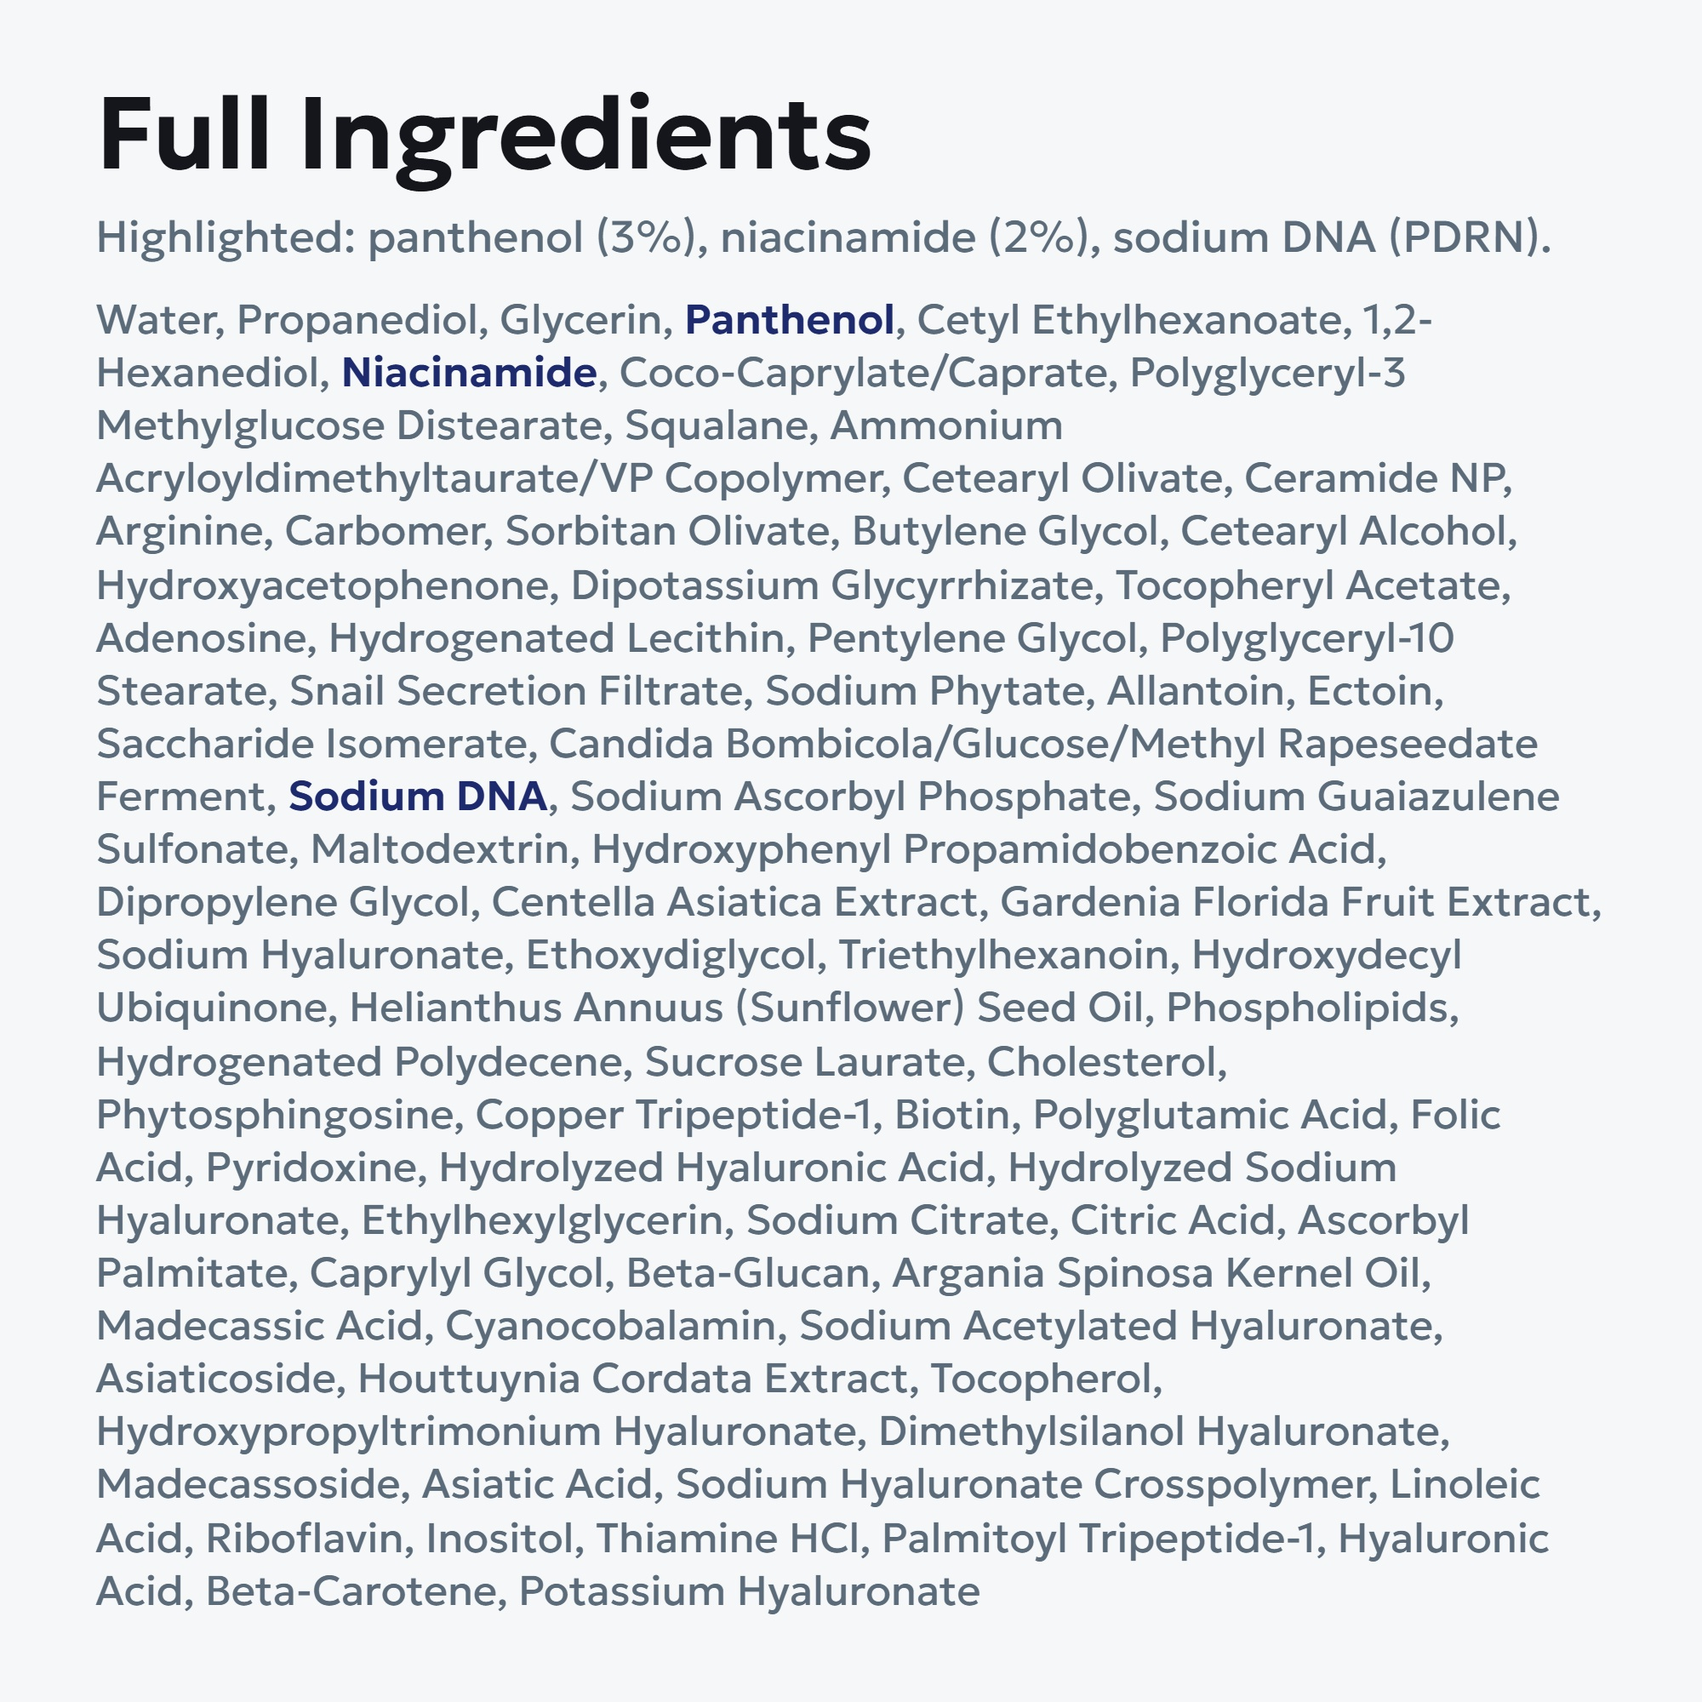
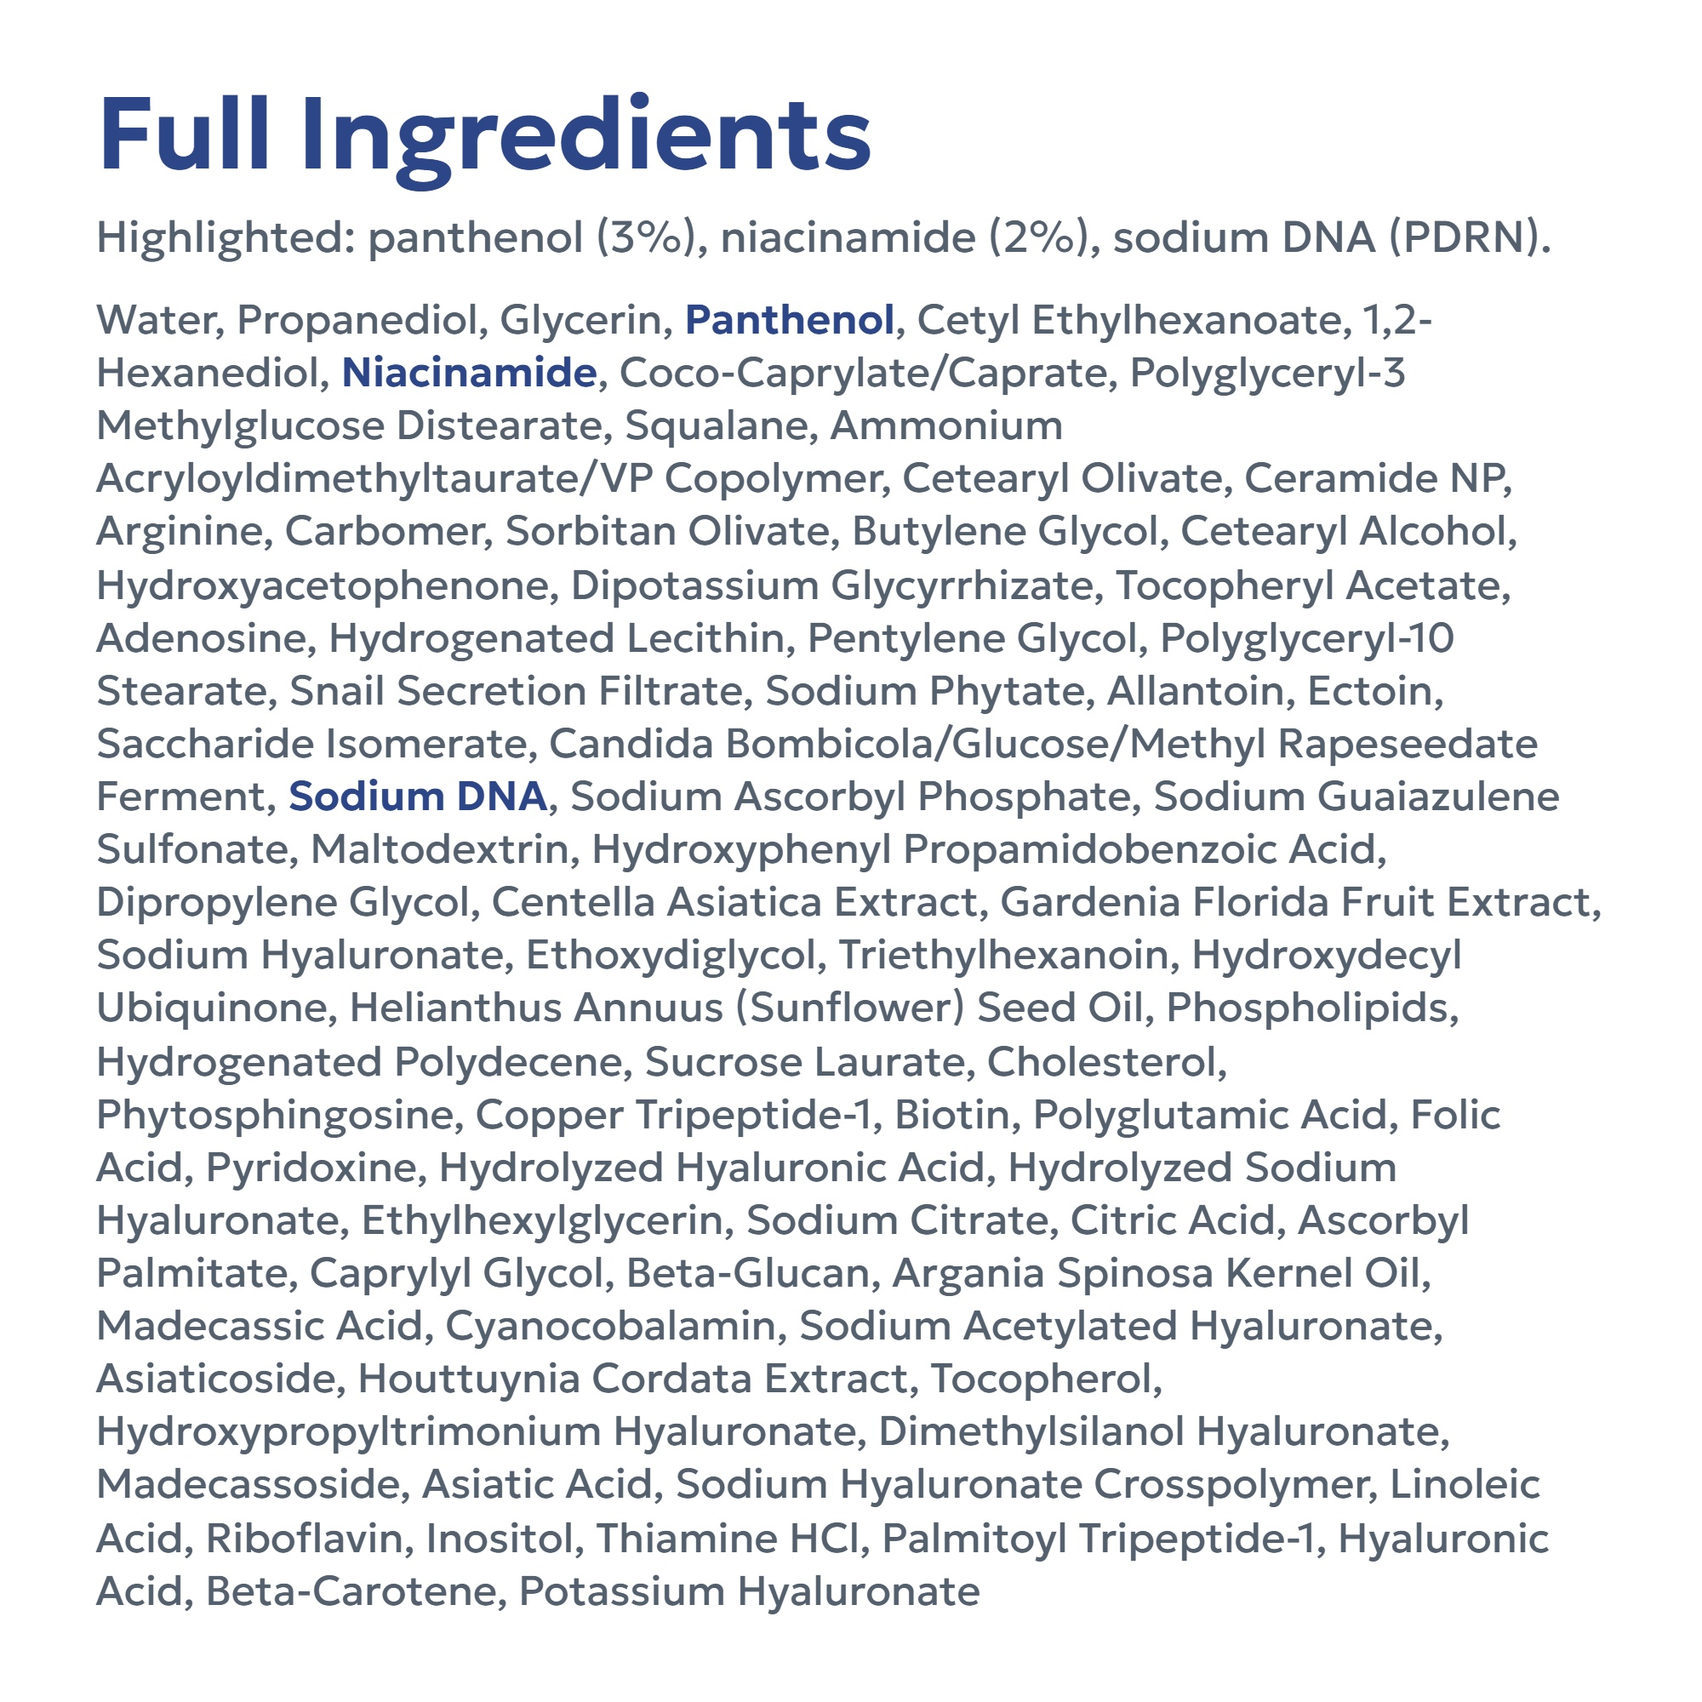
cream v2: Laneige-style light layout in Pantone 2146C, clinical card, box water texture

diff --git a/hydrovuster-cream-v1/index.html b/hydrovuster-cream-v1/index.html
@@ -53,11 +53,11 @@ header h1{font:600 18px/1.2 Archivo,sans-serif;font-stretch:85%}header span{colo
 <div class="col"><p class="lbl" style="max-width:1000px">PC (1600px 화면)</p><div class="browser" id="br"><div class="bar"><i></i><i></i><i></i></div>
 <div class="pg" id="pg"><div class="pdp"><div class="ths"><button class="th on" data-i="0"><img src="img/G01_MAIN_2000.jpg" alt=""></button><button class="th" data-i="1"><img src="img/G02_PT01_what_2000.jpg" alt=""></button><button class="th" data-i="2"><img src="img/G03_PT02_tested_2000.jpg" alt=""></button><button class="th" data-i="3"><img src="img/G04_PT03_numbers_2000.jpg" alt=""></button><button class="th" data-i="4"><img src="img/G05_PT04_ingredients_2000.jpg" alt=""></button><button class="th" data-i="5"><img src="img/G06_PT05_texture_2000.jpg" alt=""></button><button class="th" data-i="6"><img src="img/G07_PT06_how-to-use_2000.jpg" alt=""></button><button class="th" data-i="7"><img src="img/G08_INGR_full-ingredients_2000.jpg" alt=""></button></div><div class="main"><img id="main" src="img/G01_MAIN_2000.jpg" alt=""></div>
 <div class="ph"><div class="t"></div><div class="t" style="width:70%"></div><div style="width:40%"></div><div class="note">상품명·가격은 기존 리스팅 그대로(목업에서는 비워 둠)</div><div class="accs"><details class="acc" open><summary>Top highlights</summary><table class="kv"><tr><th>Brand</th><td>PYDERIN</td></tr><tr><th>Item Form</th><td>Cream</td></tr><tr><th>Product Benefits</th><td>Moisturizing</td></tr><tr><th>Use for</th><td>Face</td></tr><tr><th>Scent</th><td class=chk>Unscented</td></tr><tr><th>Skin Type</th><td class=chk>Dry</td></tr></table><p class="abt">About this item</p><ul class="bul"><li><b>Measured Moisture:</b> In a test on 21 adults with dry skin, one use lowered water loss through the skin by 28.8% and raised skin hydration density by 83% (face, average readings; temporary, results vary; Korea Institute of Dermatological Sciences, 2026)</li><li><b>What&#x27;s Inside:</b> PDRN complex 5,000 ppm (Derbiome PDRN 10K raw material, about 50 ppm sodium DNA), panthenol 3%, niacinamide 2%, plus ceramide NP and squalane</li><li><b>Light Blue, Light Feel:</b> A soft cream that spreads thin as the final step. All 21 testers liked the texture, and all 21 felt their skin was holding moisture better after one use</li><li><b>Patch-Tested:</b> 0.00 mean irritation score (non-irritant) in a 24-hour patch test on 32 adults, graded by a dermatologist, plus zero skin reactions in a 21-person single-application study (Korea Institute of Dermatological Sciences, 2026)</li><li><b>Last Step, Morning and Night:</b> After toner and serum, smooth a small amount over the face, then cup your palms to help it set. Avoid the eye area and broken skin</li></ul></details><details class="acc"><summary>Item details</summary><table class="kv"><tr><th>Number of Items</th><td>1</td></tr><tr><th>Special Ingredients</th><td>PDRN, Panthenol, Niacinamide, Ceramide NP, Squalane</td></tr><tr><th>Country of Origin</th><td>South Korea</td></tr><tr><th>Manufacturer</th><td class=chk>PYDERIN CO., LTD.</td></tr></table></details><details class="acc"><summary>Measurements</summary><table class="kv"><tr><th>Volume</th><td>2.03 fl oz (60 ml)</td></tr><tr><th>Item Weight</th><td class=chk>(확인 필요)</td></tr><tr><th>Package Dimensions</th><td class=chk>(확인 필요)</td></tr></table></details><span class="spec">See all product specifications</span></div></div></div>
-<p class="sec">Product description</p><div class="aplus"><img src="img/A01_hero_desktop_1464x600.jpg" alt=""><img src="img/A02_when-to-use_desktop_1464x600.jpg" alt=""><img src="img/A03_skin-study_desktop_1464x600.jpg" alt=""><img src="img/A04_whats-inside_desktop_1464x600.jpg" alt=""><img src="img/A05_how-to-use_desktop_1464x600.jpg" alt=""><div class="cmp"><p class="cmph">PYDERIN Hydrovuster Blue Soothing Routine</p><div class="cmpw"><table><tr><td></td><th><img src="img/cmp/compare_mask.jpg" alt=""><a>PDRN SOS Hyal Soothing Mask</a><span class="btn">Add to Cart</span></th><th><img src="img/cmp/compare_serum.jpg" alt=""><a>PDRN SOS Derma Soothing Serum</a><span class="btn">Add to Cart</span></th><th><img src="img/cmp/compare_cream.jpg" alt=""><a>PDRN Re-Barrier Soothing Cream</a><span class="btn">This item</span></th></tr><tr><td>Customer Reviews</td><td>(자동)</td><td>(자동)</td><td>(자동)</td></tr><tr><td>Price</td><td>(자동)</td><td>(자동)</td><td>(자동)</td></tr><tr><td>Step in Routine</td><td>Mask</td><td>Serum</td><td>Cream</td></tr><tr><td>When to Use</td><td>When skin needs extra moisture</td><td>Morning and night</td><td>Morning and night, last step</td></tr><tr><td>Texture</td><td>Sheet mask</td><td>Cushiony blue gel</td><td>Light blue cream</td></tr><tr><td>Key Ingredient</td><td>PDRN complex</td><td>PDRN complex 10,000 ppm</td><td>PDRN complex 5,000 ppm</td></tr><tr><td>Unit / Size</td><td>7 masks (확인 필요)</td><td>1.35 fl oz (40 ml)</td><td>2.03 fl oz (60 ml)</td></tr></table></div></div><div class="qa"><p class="qah">Questions &amp; Answers</p><details class="qai"><summary>Is it heavy?</summary><p>No. It is a soft cream that spreads thin, so a small amount covers the whole face.</p></details><details class="qai"><summary>Where does it go in my routine?</summary><p>Last, after toner and serum. In the morning, follow with sunscreen.</p></details><details class="qai"><summary>Can I use it every day?</summary><p>Yes, morning and night. If your skin is sensitive, patch test first, and stop use if irritation occurs.</p></details><details class="qai"><summary>Why does the blue look a little different from tube to tube?</summary><p>The light blue shade can vary slightly from batch to batch and may shift with heat and light. It does not affect quality.</p></details><details class="qai"><summary>Does it contain fragrance?</summary><p>No fragrance is listed in the ingredients. See the full ingredient list in the images.</p></details></div></div></div></div></div>
+<p class="sec">Product description</p><div class="aplus"><img src="img/A01_hero_desktop_1464x600.jpg" alt=""><img src="img/A02_hydration_desktop_1464x600.jpg" alt=""><img src="img/A03_whats-inside_desktop_1464x600.jpg" alt=""><img src="img/A04_skin-study_desktop_1464x600.jpg" alt=""><img src="img/A05_testers_desktop_1464x600.jpg" alt=""><div class="cmp"><p class="cmph">PYDERIN Hydrovuster Blue Soothing Routine</p><div class="cmpw"><table><tr><td></td><th><img src="img/cmp/compare_mask.jpg" alt=""><a>PDRN SOS Hyal Soothing Mask</a><span class="btn">Add to Cart</span></th><th><img src="img/cmp/compare_serum.jpg" alt=""><a>PDRN SOS Derma Soothing Serum</a><span class="btn">Add to Cart</span></th><th><img src="img/cmp/compare_cream.jpg" alt=""><a>PDRN Re-Barrier Soothing Cream</a><span class="btn">This item</span></th></tr><tr><td>Customer Reviews</td><td>(자동)</td><td>(자동)</td><td>(자동)</td></tr><tr><td>Price</td><td>(자동)</td><td>(자동)</td><td>(자동)</td></tr><tr><td>Step in Routine</td><td>Mask</td><td>Serum</td><td>Cream</td></tr><tr><td>When to Use</td><td>When skin needs extra moisture</td><td>Morning and night</td><td>Morning and night, last step</td></tr><tr><td>Texture</td><td>Sheet mask</td><td>Cushiony blue gel</td><td>Light blue cream</td></tr><tr><td>Key Ingredient</td><td>PDRN complex</td><td>PDRN complex 10,000 ppm</td><td>PDRN complex 5,000 ppm</td></tr><tr><td>Unit / Size</td><td>7 masks (확인 필요)</td><td>1.35 fl oz (40 ml)</td><td>2.03 fl oz (60 ml)</td></tr></table></div></div><div class="qa"><p class="qah">Questions &amp; Answers</p><details class="qai"><summary>Is it heavy?</summary><p>No. It is a soft cream that spreads thin, so a small amount covers the whole face.</p></details><details class="qai"><summary>Where does it go in my routine?</summary><p>Last, after toner and serum. In the morning, follow with sunscreen.</p></details><details class="qai"><summary>Can I use it every day?</summary><p>Yes, morning and night. If your skin is sensitive, patch test first, and stop use if irritation occurs.</p></details><details class="qai"><summary>Why does the blue look a little different from tube to tube?</summary><p>The light blue shade can vary slightly from batch to batch and may shift with heat and light. It does not affect quality.</p></details><details class="qai"><summary>Does it contain fragrance?</summary><p>No fragrance is listed in the ingredients. See the full ingredient list in the images.</p></details></div></div></div></div></div>
 <div class="col"><p class="lbl" style="text-align:center">MOBILE (390px)</p><div class="phone"><div class="scr"><div class="notch"><i></i></div>
 <div class="mph"><div style="width:30%"></div><div class="t"></div><div class="t" style="width:60%"></div></div><div class="sw" id="sw"><img src="img/G01_MAIN_2000.jpg" alt=""><img src="img/G02_PT01_what_2000.jpg" alt=""><img src="img/G03_PT02_tested_2000.jpg" alt=""><img src="img/G04_PT03_numbers_2000.jpg" alt=""><img src="img/G05_PT04_ingredients_2000.jpg" alt=""><img src="img/G06_PT05_texture_2000.jpg" alt=""><img src="img/G07_PT06_how-to-use_2000.jpg" alt=""><img src="img/G08_INGR_full-ingredients_2000.jpg" alt=""></div><div class="dots" id="dots"><i class=on></i><i></i><i></i><i></i><i></i><i></i><i></i><i></i></div>
 <div class="mph"><div style="width:40%"></div></div><div class="mabt"><details class="acc"><summary>Top highlights</summary><table class="kv"><tr><th>Brand</th><td>PYDERIN</td></tr><tr><th>Item Form</th><td>Cream</td></tr><tr><th>Product Benefits</th><td>Moisturizing</td></tr><tr><th>Use for</th><td>Face</td></tr><tr><th>Scent</th><td class=chk>Unscented</td></tr><tr><th>Skin Type</th><td class=chk>Dry</td></tr></table><p class="abt">About this item</p><ul class="bul"><li><b>Measured Moisture:</b> In a test on 21 adults with dry skin, one use lowered water loss through the skin by 28.8% and raised skin hydration density by 83% (face, average readings; temporary, results vary; Korea Institute of Dermatological Sciences, 2026)</li><li><b>What&#x27;s Inside:</b> PDRN complex 5,000 ppm (Derbiome PDRN 10K raw material, about 50 ppm sodium DNA), panthenol 3%, niacinamide 2%, plus ceramide NP and squalane</li><li><b>Light Blue, Light Feel:</b> A soft cream that spreads thin as the final step. All 21 testers liked the texture, and all 21 felt their skin was holding moisture better after one use</li><li><b>Patch-Tested:</b> 0.00 mean irritation score (non-irritant) in a 24-hour patch test on 32 adults, graded by a dermatologist, plus zero skin reactions in a 21-person single-application study (Korea Institute of Dermatological Sciences, 2026)</li><li><b>Last Step, Morning and Night:</b> After toner and serum, smooth a small amount over the face, then cup your palms to help it set. Avoid the eye area and broken skin</li></ul></details><details class="acc"><summary>Item details</summary><table class="kv"><tr><th>Number of Items</th><td>1</td></tr><tr><th>Special Ingredients</th><td>PDRN, Panthenol, Niacinamide, Ceramide NP, Squalane</td></tr><tr><th>Country of Origin</th><td>South Korea</td></tr><tr><th>Manufacturer</th><td class=chk>PYDERIN CO., LTD.</td></tr></table></details><details class="acc"><summary>Measurements</summary><table class="kv"><tr><th>Volume</th><td>2.03 fl oz (60 ml)</td></tr><tr><th>Item Weight</th><td class=chk>(확인 필요)</td></tr><tr><th>Package Dimensions</th><td class=chk>(확인 필요)</td></tr></table></details><span class="spec">See all product specifications</span></div>
-<p class="msec">Product description</p><div class="maplus"><img src="img/A01_hero_mobile_600x450.jpg" alt=""><img src="img/A02_when-to-use_mobile_600x450.jpg" alt=""><img src="img/A03_skin-study_mobile_600x450.jpg" alt=""><img src="img/A04_whats-inside_mobile_600x450.jpg" alt=""><img src="img/A05_how-to-use_mobile_600x450.jpg" alt=""><div class="cmp"><p class="cmph">PYDERIN Hydrovuster Blue Soothing Routine</p><div class="cmpw"><table><tr><td></td><th><img src="img/cmp/compare_mask.jpg" alt=""><a>PDRN SOS Hyal Soothing Mask</a><span class="btn">Add to Cart</span></th><th><img src="img/cmp/compare_serum.jpg" alt=""><a>PDRN SOS Derma Soothing Serum</a><span class="btn">Add to Cart</span></th><th><img src="img/cmp/compare_cream.jpg" alt=""><a>PDRN Re-Barrier Soothing Cream</a><span class="btn">This item</span></th></tr><tr><td>Customer Reviews</td><td>(자동)</td><td>(자동)</td><td>(자동)</td></tr><tr><td>Price</td><td>(자동)</td><td>(자동)</td><td>(자동)</td></tr><tr><td>Step in Routine</td><td>Mask</td><td>Serum</td><td>Cream</td></tr><tr><td>When to Use</td><td>When skin needs extra moisture</td><td>Morning and night</td><td>Morning and night, last step</td></tr><tr><td>Texture</td><td>Sheet mask</td><td>Cushiony blue gel</td><td>Light blue cream</td></tr><tr><td>Key Ingredient</td><td>PDRN complex</td><td>PDRN complex 10,000 ppm</td><td>PDRN complex 5,000 ppm</td></tr><tr><td>Unit / Size</td><td>7 masks (확인 필요)</td><td>1.35 fl oz (40 ml)</td><td>2.03 fl oz (60 ml)</td></tr></table></div></div><div class="qa"><p class="qah">Questions &amp; Answers</p><details class="qai"><summary>Is it heavy?</summary><p>No. It is a soft cream that spreads thin, so a small amount covers the whole face.</p></details><details class="qai"><summary>Where does it go in my routine?</summary><p>Last, after toner and serum. In the morning, follow with sunscreen.</p></details><details class="qai"><summary>Can I use it every day?</summary><p>Yes, morning and night. If your skin is sensitive, patch test first, and stop use if irritation occurs.</p></details><details class="qai"><summary>Why does the blue look a little different from tube to tube?</summary><p>The light blue shade can vary slightly from batch to batch and may shift with heat and light. It does not affect quality.</p></details><details class="qai"><summary>Does it contain fragrance?</summary><p>No fragrance is listed in the ingredients. See the full ingredient list in the images.</p></details></div></div></div></div></div>
+<p class="msec">Product description</p><div class="maplus"><img src="img/A01_hero_mobile_600x450.jpg" alt=""><img src="img/A02_hydration_mobile_600x450.jpg" alt=""><img src="img/A03_whats-inside_mobile_600x450.jpg" alt=""><img src="img/A04_skin-study_mobile_600x450.jpg" alt=""><img src="img/A05_testers_mobile_600x450.jpg" alt=""><div class="cmp"><p class="cmph">PYDERIN Hydrovuster Blue Soothing Routine</p><div class="cmpw"><table><tr><td></td><th><img src="img/cmp/compare_mask.jpg" alt=""><a>PDRN SOS Hyal Soothing Mask</a><span class="btn">Add to Cart</span></th><th><img src="img/cmp/compare_serum.jpg" alt=""><a>PDRN SOS Derma Soothing Serum</a><span class="btn">Add to Cart</span></th><th><img src="img/cmp/compare_cream.jpg" alt=""><a>PDRN Re-Barrier Soothing Cream</a><span class="btn">This item</span></th></tr><tr><td>Customer Reviews</td><td>(자동)</td><td>(자동)</td><td>(자동)</td></tr><tr><td>Price</td><td>(자동)</td><td>(자동)</td><td>(자동)</td></tr><tr><td>Step in Routine</td><td>Mask</td><td>Serum</td><td>Cream</td></tr><tr><td>When to Use</td><td>When skin needs extra moisture</td><td>Morning and night</td><td>Morning and night, last step</td></tr><tr><td>Texture</td><td>Sheet mask</td><td>Cushiony blue gel</td><td>Light blue cream</td></tr><tr><td>Key Ingredient</td><td>PDRN complex</td><td>PDRN complex 10,000 ppm</td><td>PDRN complex 5,000 ppm</td></tr><tr><td>Unit / Size</td><td>7 masks (확인 필요)</td><td>1.35 fl oz (40 ml)</td><td>2.03 fl oz (60 ml)</td></tr></table></div></div><div class="qa"><p class="qah">Questions &amp; Answers</p><details class="qai"><summary>Is it heavy?</summary><p>No. It is a soft cream that spreads thin, so a small amount covers the whole face.</p></details><details class="qai"><summary>Where does it go in my routine?</summary><p>Last, after toner and serum. In the morning, follow with sunscreen.</p></details><details class="qai"><summary>Can I use it every day?</summary><p>Yes, morning and night. If your skin is sensitive, patch test first, and stop use if irritation occurs.</p></details><details class="qai"><summary>Why does the blue look a little different from tube to tube?</summary><p>The light blue shade can vary slightly from batch to batch and may shift with heat and light. It does not affect quality.</p></details><details class="qai"><summary>Does it contain fragrance?</summary><p>No fragrance is listed in the ingredients. See the full ingredient list in the images.</p></details></div></div></div></div></div>
 </div>
 <script>
 document.querySelectorAll('.car').forEach(c=>{const T=[...c.querySelectorAll('.tab')],S=[...c.querySelectorAll('.sl')];let k=0;const go=j=>{k=(j+S.length)%S.length;T.forEach((t,i)=>t.classList.toggle('on',i==k));S.forEach((s,i)=>s.classList.toggle('on',i==k))};
